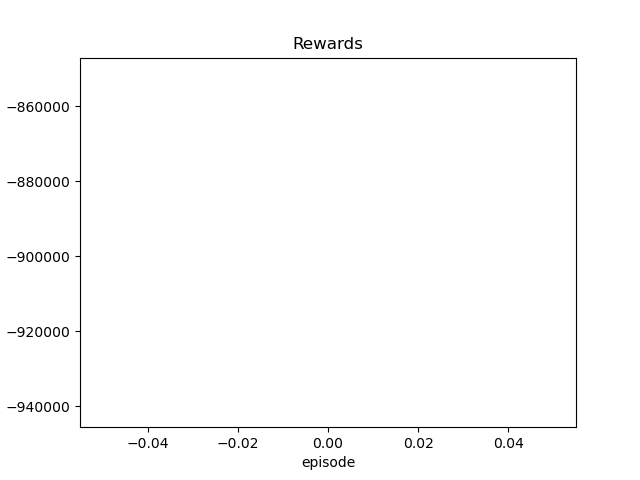
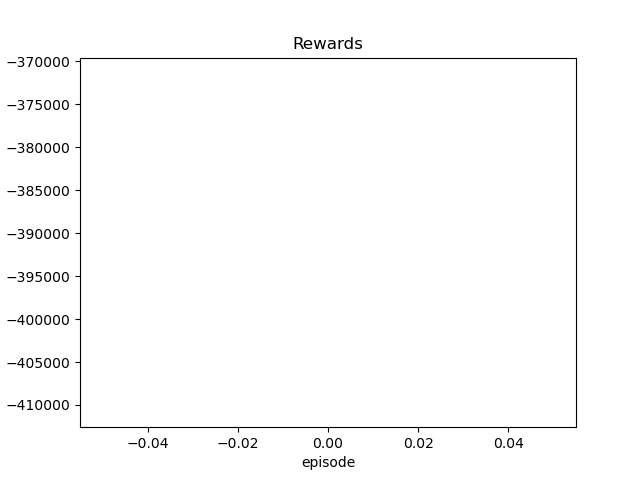
fix max pressure - need to check if optimal or need other fixes

diff --git a/source/generic_tls.py b/source/generic_tls.py
@@ -85,8 +85,8 @@ class GenericTLS:
     #             total_time_loss += traci.vehicle.getTimeLoss(vehicle_id)
     #     return total_time_loss
 
-    # def get_num_controlled_lanes(self):
-    #     return len(traci.trafficlight.getControlledLanes(self.tls_id))
+    def get_num_lanes(self):
+        return len(traci.trafficlight.getControlledLanes(self.tls_id))
 
     # return (in_vehicles, out_vehicles)
     # in_vehicles: number of vehicles entering the TLS from each lane
@@ -111,31 +111,31 @@ class GenericTLS:
             num_vehicles.append(vehicles)
         return num_vehicles
     
-    # def get_num_vehicles_on_each_lane(self, max_distance):
-    #     in_vehicles = {}
-    #     out_vehicles = {}
-    #     lanes = traci.trafficlight.getControlledLinks(self.tls_id)
-    #     for lane in lanes:
-    #         for link in lane:
-    #             incoming_lane = link[0]
-    #             outgoing_lane = link[1]
-    #             in_vehicles[incoming_lane] = 0
-    #             out_vehicles[outgoing_lane] = 0
-    #             in_v_ids = traci.lane.getLastStepVehicleIDs(incoming_lane)
-    #             out_v_ids = traci.lane.getLastStepVehicleIDs(outgoing_lane)
-    #             for vehicle_id in in_v_ids:
-    #                 next_tls_tuple = traci.vehicle.getNextTLS(vehicle_id)
-    #                 if len(next_tls_tuple) > 0:
-    #                     _, _, tls_distance, _ = next_tls_tuple[0]
-    #                     if tls_distance <= max_distance:
-    #                         in_vehicles[incoming_lane] += 1
-    #             for vehicle_id in out_v_ids:
-    #                 next_tls_tuple = traci.vehicle.getNextTLS(vehicle_id)
-    #                 if len(next_tls_tuple) > 0:
-    #                     _, _, tls_distance, _ = next_tls_tuple[0]
-    #                     if tls_distance <= max_distance:
-    #                         out_vehicles[outgoing_lane] += 1
-    #     return in_vehicles, out_vehicles
+    def get_num_vehicles_on_each_lane_with_distance(self, max_distance):
+        in_vehicles = {}
+        out_vehicles = {}
+        lanes = traci.trafficlight.getControlledLinks(self.tls_id)
+        for lane in lanes:
+            for link in lane:
+                incoming_lane = link[0]
+                outgoing_lane = link[1]
+                in_vehicles[incoming_lane] = 0
+                out_vehicles[outgoing_lane] = 0
+                in_v_ids = traci.lane.getLastStepVehicleIDs(incoming_lane)
+                out_v_ids = traci.lane.getLastStepVehicleIDs(outgoing_lane)
+                for vehicle_id in in_v_ids:
+                    next_tls_tuple = traci.vehicle.getNextTLS(vehicle_id)
+                    if len(next_tls_tuple) > 0:
+                        _, _, tls_distance, _ = next_tls_tuple[0]
+                        if tls_distance <= max_distance:
+                            in_vehicles[incoming_lane] += 1
+                for vehicle_id in out_v_ids:
+                    next_tls_tuple = traci.vehicle.getNextTLS(vehicle_id)
+                    if len(next_tls_tuple) > 0:
+                        _, _, tls_distance, _ = next_tls_tuple[0]
+                        if tls_distance <= max_distance:
+                            out_vehicles[outgoing_lane] += 1
+        return in_vehicles, out_vehicles
 
     def get_weighted_num_vehicles_on_each_lane(self):
         in_vehicles = {}
@@ -279,11 +279,12 @@ class GenericTLS:
 
     def set_tls_phase(self, phase_index):
         self.next_phase = phase_index
+
+    def set_max_pressure_tls_phase(self, phase_index):
+        if (self.get_curr_phase() != phase_index):
+            self.green_phases_mask[self.get_curr_phase()] = 0
+        self.next_phase = phase_index
         
-    def set_tls_phase_max_pressure(self, curr_phase, next_phase_index):
-        if next_phase_index != curr_phase:
-            self.green_phases_mask[next_phase_index] = 0
-        self.next_phase = next_phase_index
 
     def get_aggregated_data(self):
         return (self.vehicle_distance_from_tls, self.vehicle_velocities, self.simulation_times)
@@ -341,6 +342,7 @@ class GenericTLS:
         phase_pressure = {}
         no_vehicle_phases = []
         # if selected all green phases in this round, re-set all green phases bits
+        # print("self.green_phases_mask = ", self.green_phases_mask)
         if not (1 in self.green_phases_mask):
             self.green_phases_mask = self.get_tls_green_phases_mask()
         #compute pressure for all green movements
@@ -360,7 +362,7 @@ class GenericTLS:
             #pressure is defined as the number of vehicles in a lane
             inc_pressure = sum([ inc[l] for l in inc_lanes])
             out_pressure = sum([ out[l] for l in out_lanes])
-            phase_pressure[phase_index] = inc_pressure - out_pressure
+            phase_pressure[phase_index] = inc_pressure# - out_pressure
             if inc_pressure == 0 and out_pressure == 0:
                 no_vehicle_phases.append(phase_index)
 
@@ -378,11 +380,8 @@ class GenericTLS:
             phase_pressure = [ p for p in phase_pressure if p[1] == phase_pressure[0][1] ]
             selected_phase = random.choice(phase_pressure)[0]
 
-        # mark selected phase in the mask, so we don't select in in same round
         # print("selected_phase = ", selected_phase)
-        # print("curr_phase = ", curr_phase)
-        # if selected_phase != curr_phase:
-        #     self.green_phases_mask &= ~(1 << selected_phase)
-        # else:
-        #     print("selected_phase = ", selected_phase)
+        # mark selected phase in the mask, so we don't select it in same round
+        # if selected_phase != self.get_curr_phase():
+        #     self.green_phases_mask[selected_phase] = 0
         return selected_phase

diff --git a/source/max_pressure.py b/source/max_pressure.py
@@ -24,54 +24,65 @@ state = env.reset(is_gui=args.gui, collect_data=False, sim_file=sim_file)
 
 
 env.MIN_TIME_IN_PHASE = 5
-env.MAX_TIME_IN_PHASE = 50
+env.MAX_TIME_IN_PHASE = 35
 
 green_phases = env.tls.get_tls_green_phases()
+ALL_RED = ""
+for _ in range(env.tls.get_num_lanes()):
+    ALL_RED += "r"
 
 rewards = []
 
 num_episodes = 1
 for t in range(num_episodes):
     total_reward = 0
+    total_non_weighted_reward = 0
     curr_phase = 0
     time_in_yellow = 0
     time_in_red = 0
     env.reset(sim_file=sim_file)
     while True:
         
+        curr_colors = env.tls.get_curr_colors()
+        curr_phase = env.tls.get_curr_phase()
         next_phase = env.tls.max_pressure()
-
-        colors = env.tls.get_curr_colors()
-        is_red_phase = not("G" in colors) and not("g" in colors) and not("y" in colors)
-        is_yellow_phase = ("y" in colors)
         
-        if next_phase != curr_phase and env.tls.get_curr_phase_spent_time() < env.MIN_TIME_IN_PHASE and not(is_red_phase) and not(is_yellow_phase):
+        is_yellow_phase = ("y" in curr_colors)
+        is_red_phase = (curr_colors == ALL_RED)
+
+        if next_phase != curr_phase and env.tls.get_curr_phase_spent_time() < env.MIN_TIME_IN_PHASE and not(is_yellow_phase) and not(is_red_phase):
             next_phase = curr_phase
             
         # Force change phase if max time in the current phase is exceeded
         if next_phase == curr_phase and env.tls.get_curr_phase_spent_time() > env.MAX_TIME_IN_PHASE:
+            env.tls.green_phases_mask[curr_phase] = 0
             next_phase = env.tls.max_pressure()
 
+        # print("curr_phase = ", curr_phase)
+        # print("next_phase = ", next_phase)
+        # print("time_in_yellow = ", time_in_yellow)
         # Implement yellow phase logic
-        if not(is_red_phase) and ((next_phase != curr_phase and time_in_yellow == 0) or (time_in_yellow == 1)):
+        if not(is_red_phase) and ((next_phase != curr_phase and time_in_yellow == 0 and not(is_yellow_phase)) or (time_in_yellow == 1)):
+            if is_yellow_phase and time_in_yellow == 1:
+                next_phase = curr_phase
+            else:
+                next_phase = curr_phase + 1
             time_in_yellow += 1
-            next_phase = 1#env.tls.get_next_yellow_phase()
-        elif time_in_yellow >= 2:
-            time_in_yellow = 0  # Reset yellow phase timer
-            
-            
+
         # Implement red phase logic
-        if (is_yellow_phase and time_in_yellow == 0 and time_in_red < 1):
+        if (is_yellow_phase and time_in_yellow == 0 and time_in_red == 0):
             time_in_red += 1
-            next_phase = 2
-        elif time_in_red >= 1:
-            time_in_red = 0  # Reset red phase timer
+            next_phase = curr_phase + 1
+            
+        if (time_in_yellow == 2):
+            time_in_yellow = 0
+
+        if (time_in_red == 1):
+            time_in_red = 0
             
         # print("next_phase = ", next_phase)
-        env.tls.set_tls_phase_max_pressure(curr_phase, next_phase)
+        env.tls.set_max_pressure_tls_phase(next_phase)
 
-        curr_phase = next_phase
-        
         # do the action
         env.tls.do_one_simulation_step()
 
@@ -80,10 +91,13 @@ for t in range(num_episodes):
 
         env.curr_step += 1
         weighted_reward = -env.tls.get_weighted_num_vehicles()
+        non_weighted_reward = -traci.vehicle.getIDCount()
         total_reward += weighted_reward
+        total_non_weighted_reward += non_weighted_reward
         is_terminated =  (env.curr_step >= env.SIM_STEPS)
         if is_terminated:
             print(f"\ntotal_reward = {total_reward}\n")
+            print(f"total_non_weighted_reward = {total_non_weighted_reward}\n")
             rewards.append(total_reward)
             env.terminate()
             plt.plot(rewards)
